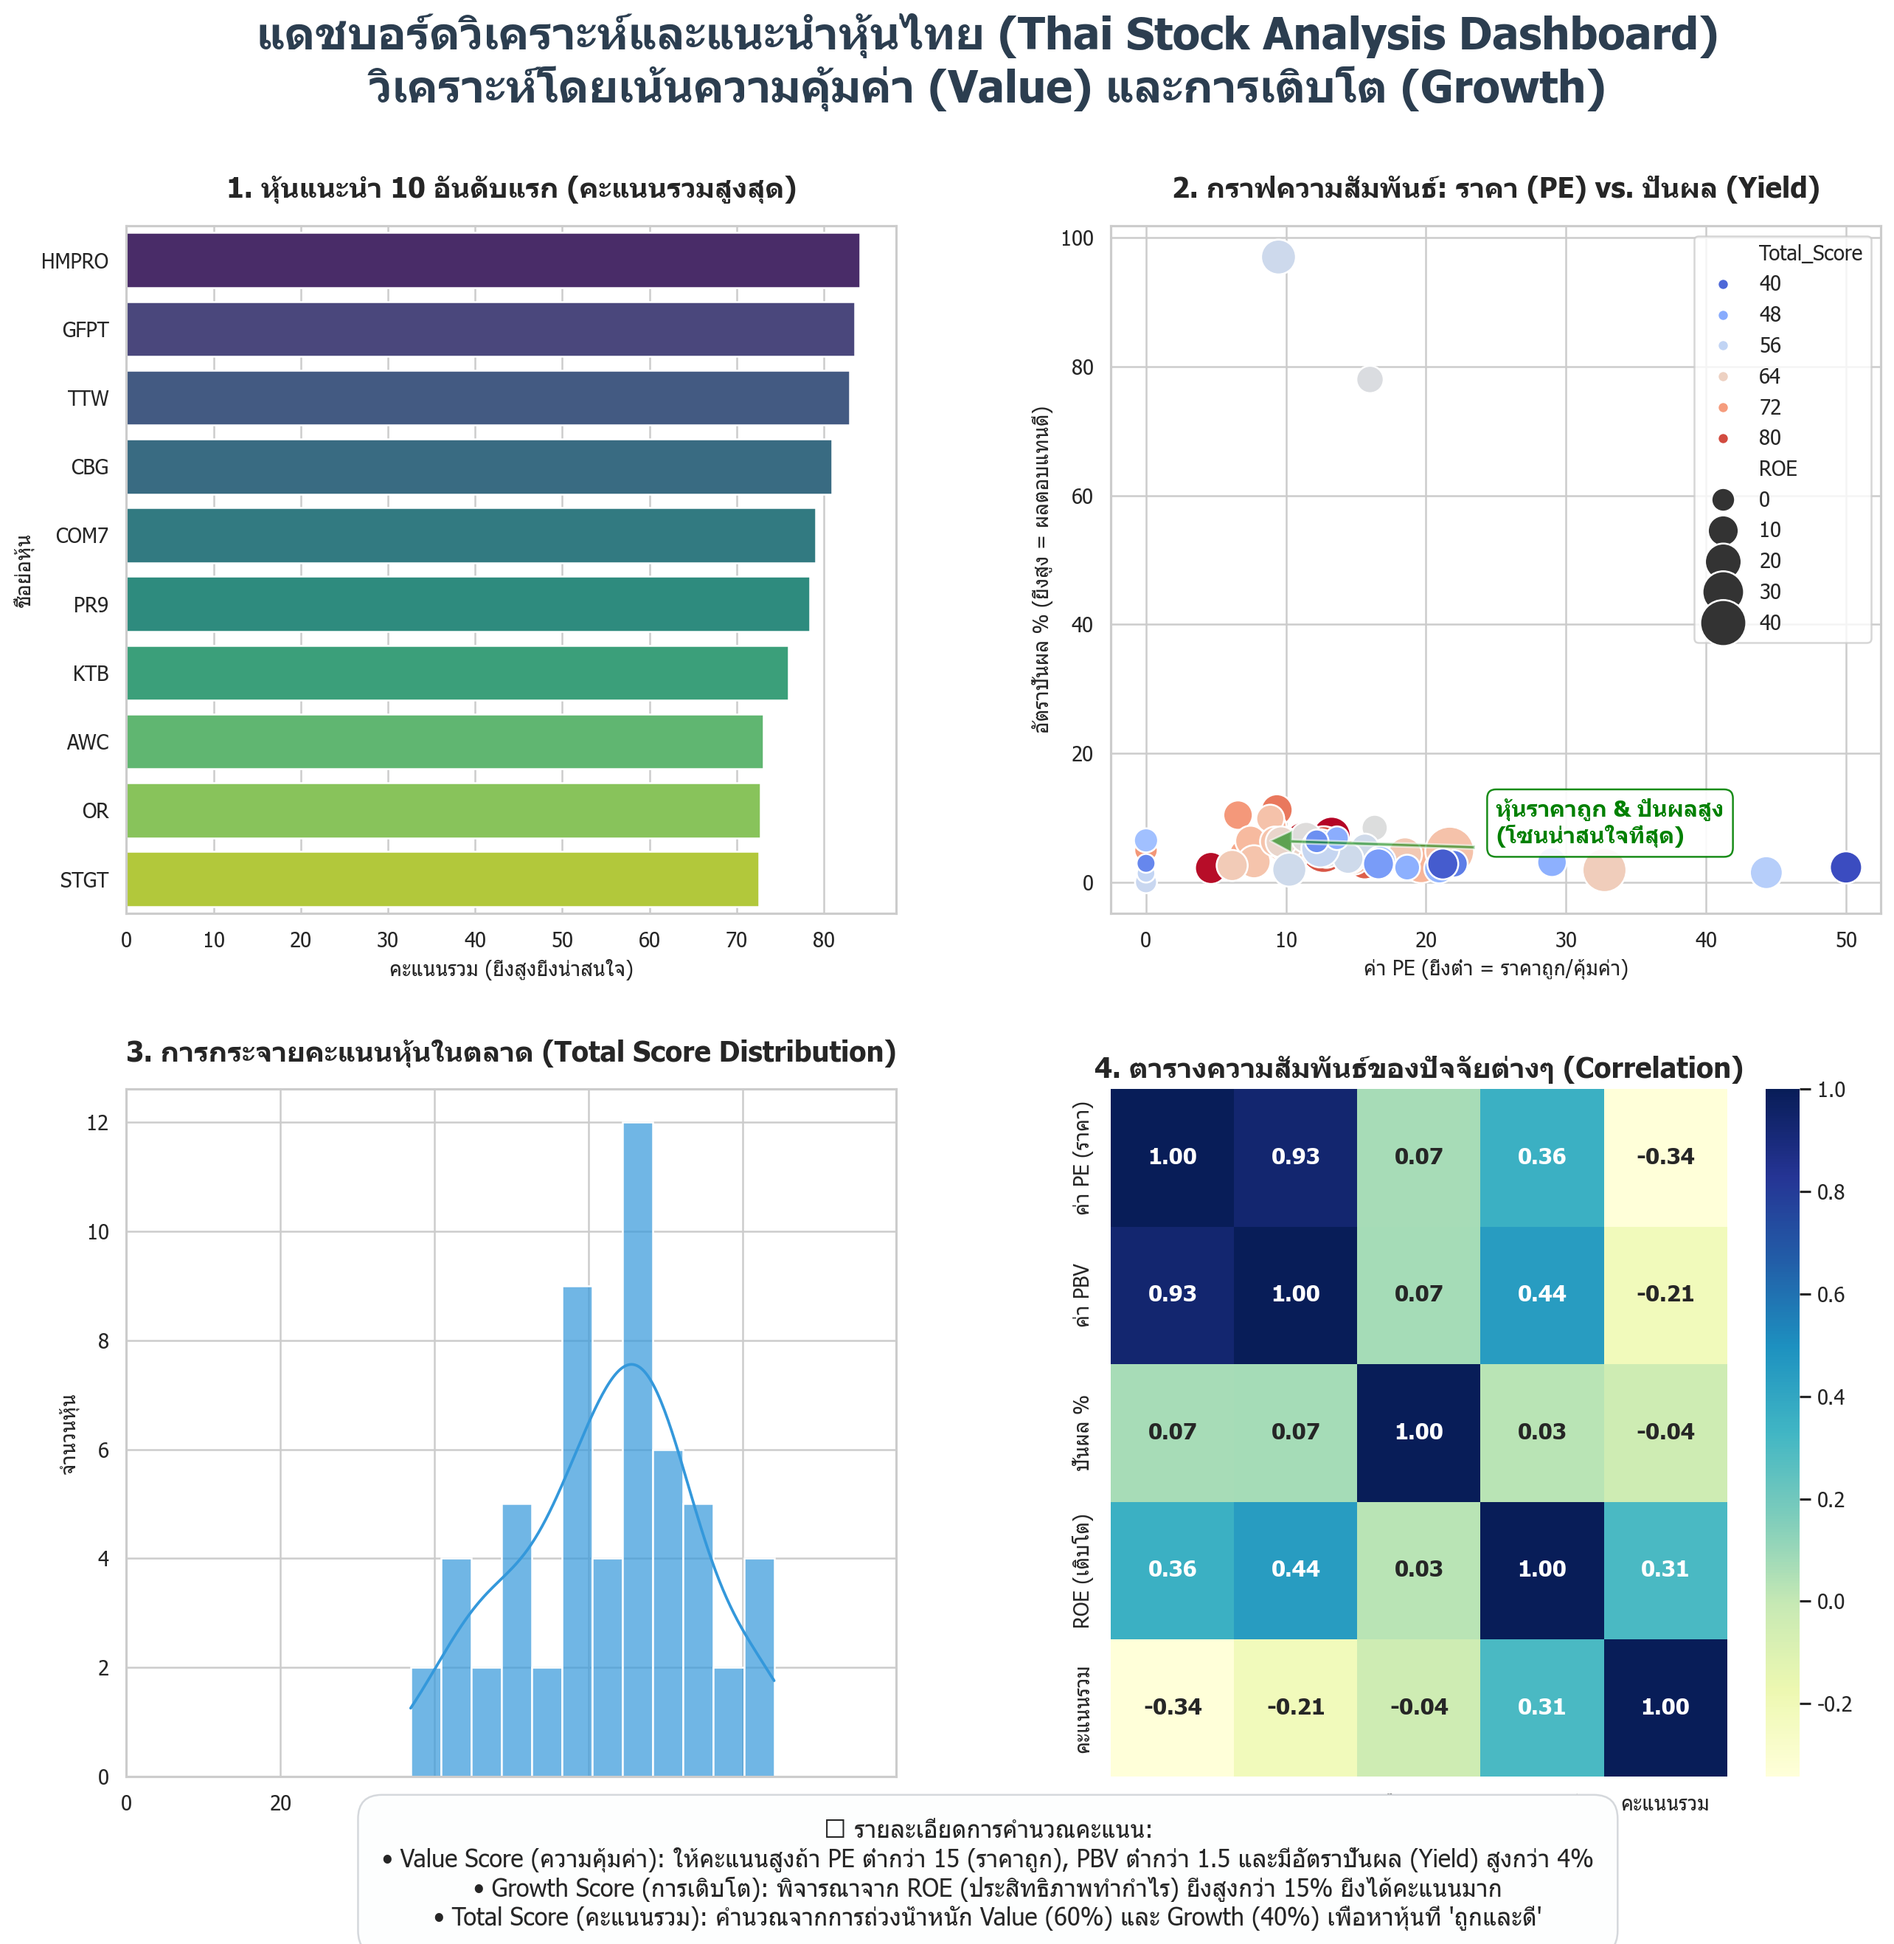
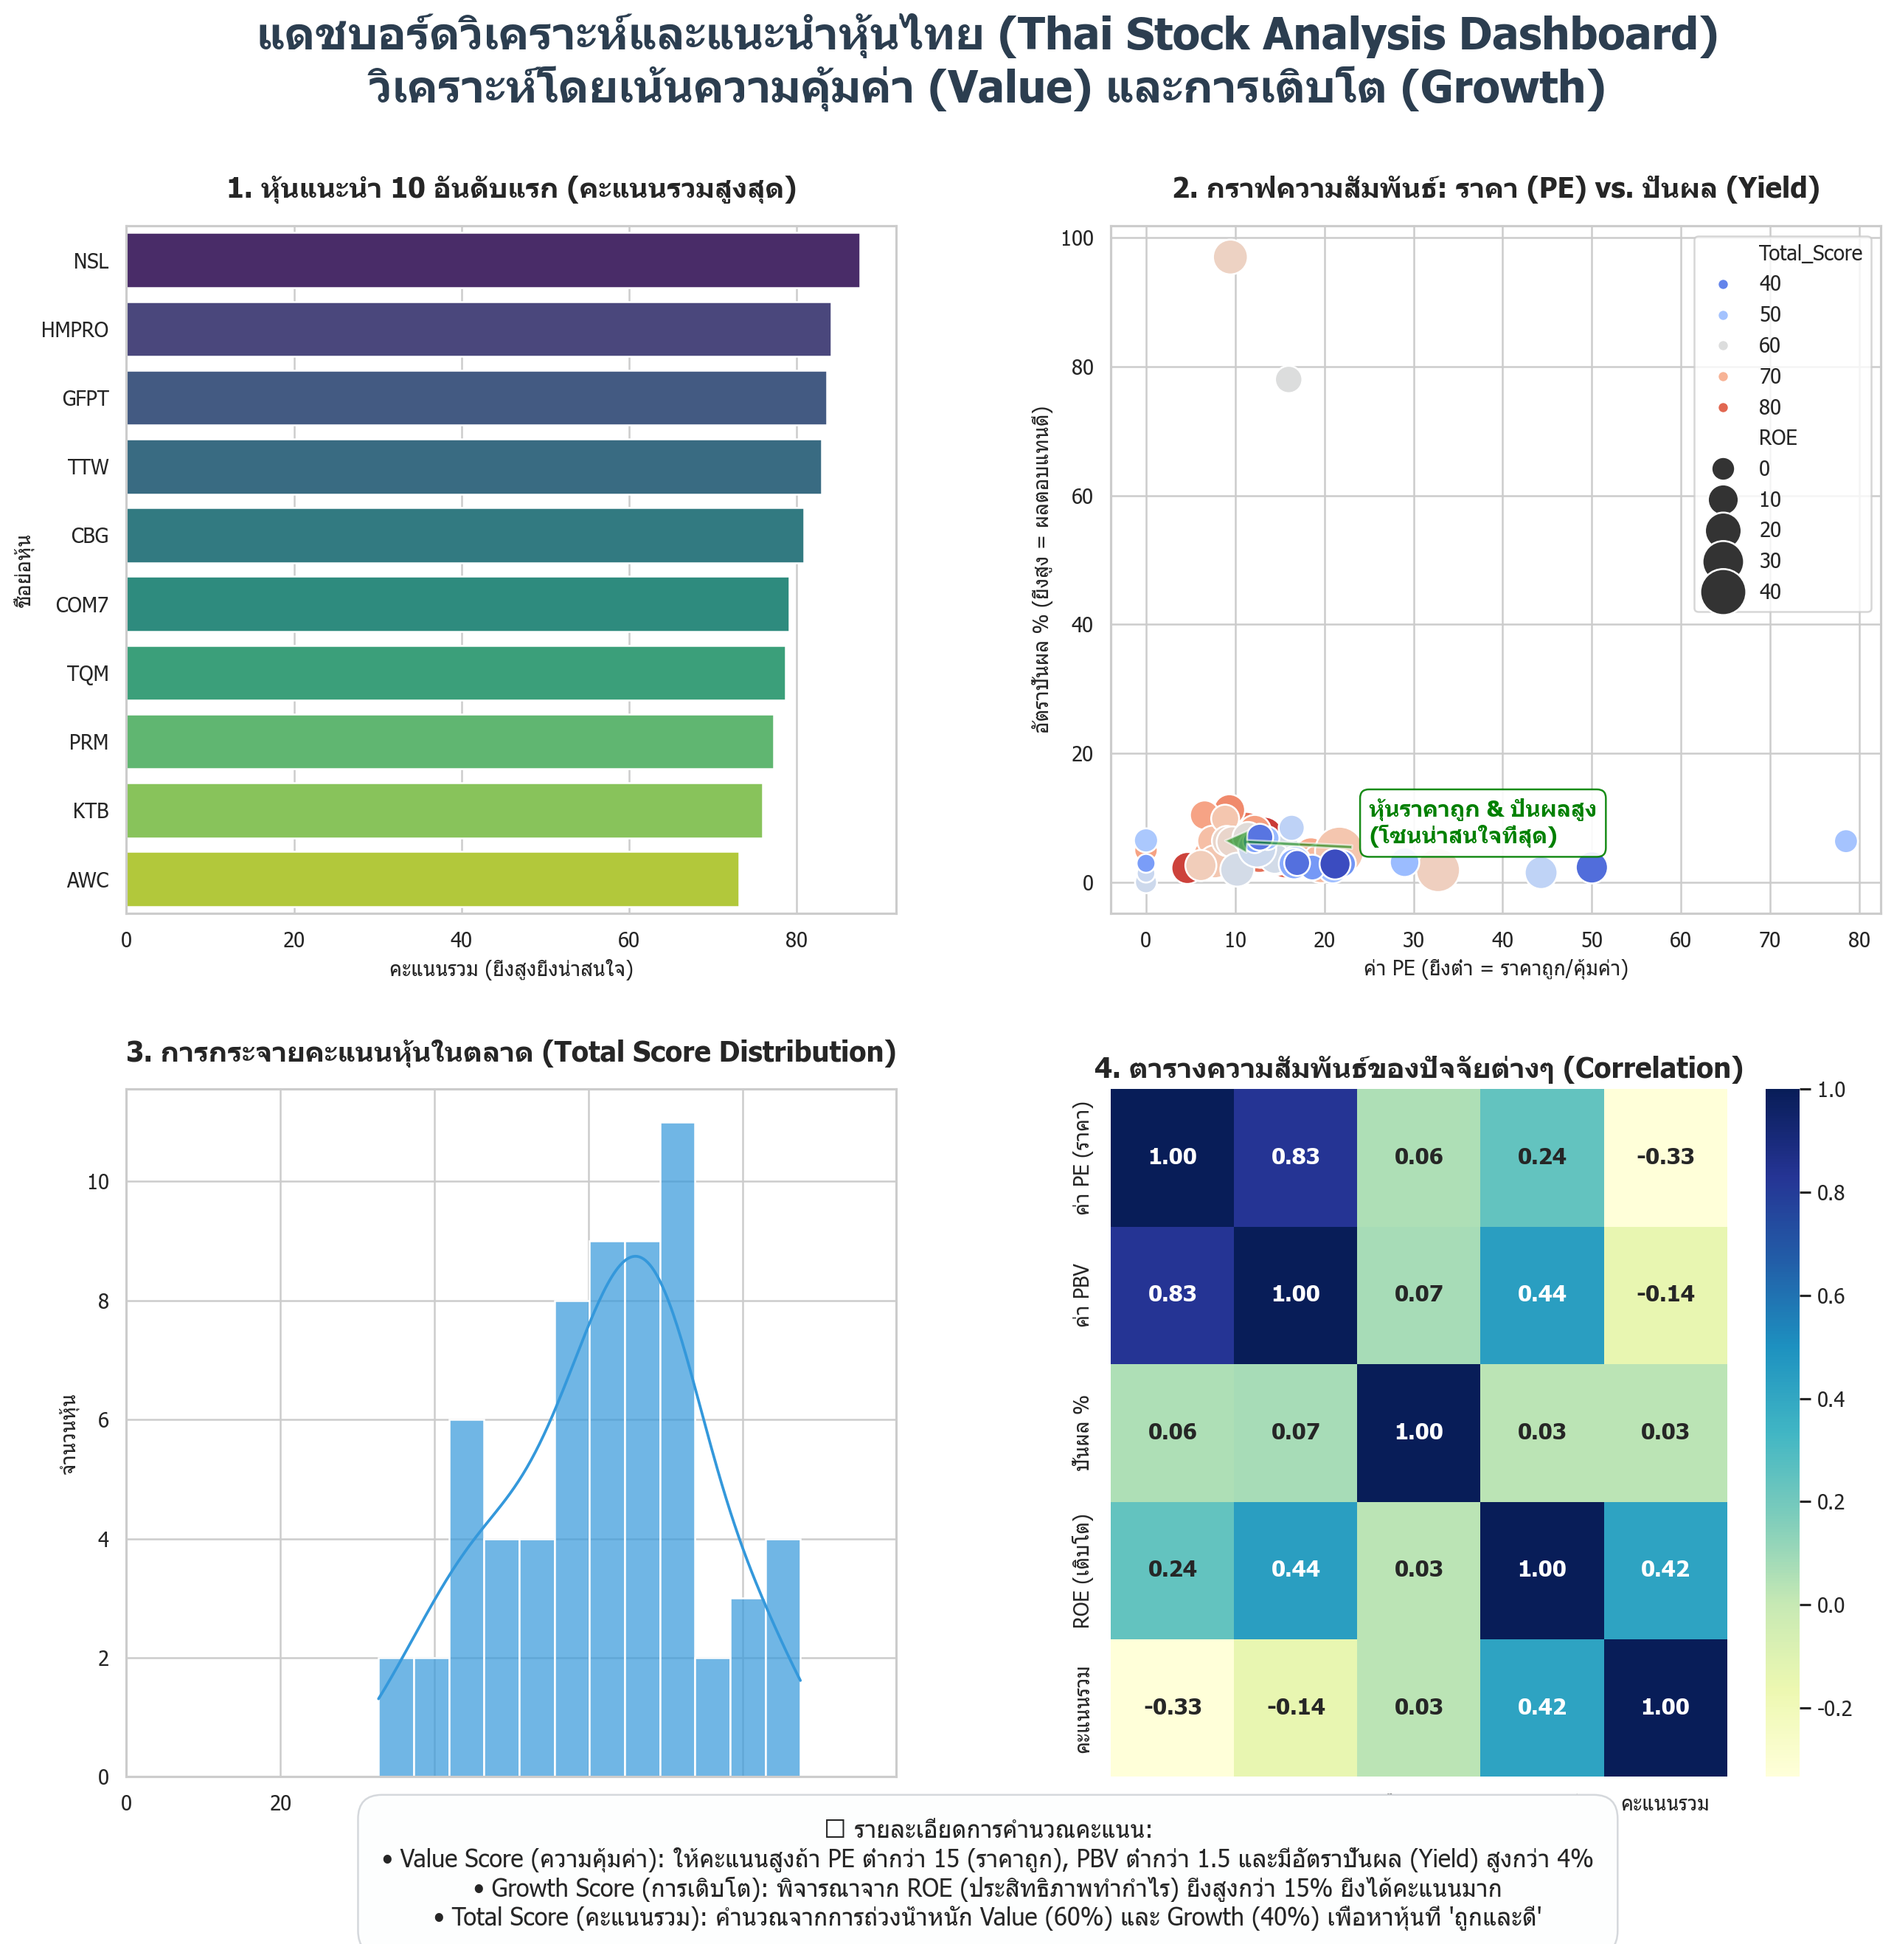
update think.md และเพิ่มการคิดเข้าไปใหม่

diff --git a/main.py b/main.py
@@ -104,10 +104,21 @@ def main():
                 
                 def get_advice(row):
                     if pd.isna(row['Total_Score']): return "No Data"
-                    score, gl = row['Total_Score'], row['Gain_Loss_Pct']
-                    if score >= 70: return "Buy More" if gl < 0 else "Hold"
-                    elif score >= 45: return "Wait/Hold"
-                    else: return "Sell" if gl > 0 else "Reduce/Cut"
+                    score = row['Total_Score']
+                    gl = row['Gain_Loss_Pct']
+                    pos = row['Price_Position']
+                    
+                    if score >= 70:
+                        if gl < 0:
+                            return "Buy More" # หุ้นดี ราคาลง = เก็บเพิ่ม (ถัวล่าง)
+                        elif pos < 40: 
+                            return "Accumulate" # หุ้นดี มีกำไร แต่ราคายังอยู่โซนล่าง = ทยอยสะสมเพิ่ม
+                        else:
+                            return "Hold" # หุ้นดี มีกำไร แต่ราคาเริ่มสูง = ถือรันกำไร
+                    elif score >= 45:
+                        return "Wait/Hold"
+                    else:
+                        return "Sell" if gl > 0 else "Reduce/Cut"
 
                 merged['Advice'] = merged.apply(get_advice, axis=1)
                 

diff --git a/think.md b/think.md
@@ -1,0 +1,42 @@
+# Stock Investment Analysis Logic (หลักการวิเคราะห์หุ้น)
+
+เอกสารนี้สรุปตรรกะและวิธีการคำนวณของระบบ เพื่อให้ผู้พัฒนาหรือ AI เข้าใจพื้นฐานก่อนการต่อยอดระบบ
+
+## 1. ระบบการให้คะแนน (Scoring System)
+ระบบใช้เกณฑ์การให้คะแนนแบบ **Multi-Factor Score** โดยแบ่งน้ำหนักตามความสำคัญดังนี้:
+
+*   **20% Financial Risk (D/E Ratio):** วัดความเสี่ยงด้านหนี้สิน (หนี้ต่ำ = คะแนนสูง)
+*   **20% Timing & Technical (RSI + Price Position):** 
+    *   RSI: วัดภาวะ Oversold/Overbought
+    *   Price Position: วัดตำแหน่งราคาปัจจุบันเทียบกับรอบ 52 สัปดาห์ (ราคาใกล้ Low = คะแนนสูง)
+*   **30% Absolute Fundamentals (P/E, ROE, Yield):** วัดคุณภาพหุ้นในเชิงมูลค่าและประสิทธิภาพการทำกำไร
+*   **30% Sector-Relative Quality:** เปรียบเทียบค่า P/E และ ROE กับ **"ค่ากลางของกลุ่มอุตสาหกรรม (Sector)"** เพื่อหาหุ้นที่โดดเด่นที่สุดในกลุ่มนั้นๆ
+
+## 2. หลักการให้คำแนะนำ (Investment Advice Logic - Aggressive Value)
+คำแนะนำ (Advice) จะพิจารณาจาก 3 ปัจจัย: **คุณภาพหุ้น (Score)**, **กำไร/ขาดทุน (Gain/Loss %)** และ **ตำแหน่งราคา (Price Position)**
+
+| คุณภาพหุ้น (Score) | สถานะพอร์ต | ตำแหน่งราคา (Pos) | คำแนะนำ (Advice) | เหตุผล |
+| :--- | :--- | :--- | :--- | :--- |
+| **หุ้นดีมาก (>= 70)** | ขาดทุน (Loss) | ไม่จำกัด | **Buy More** | หุ้นพื้นฐานดีแต่ราคาถูกลง เป็นจังหวะถัวเฉลี่ยที่ดี |
+| **หุ้นดีมาก (>= 70)** | กำไร (Profit) | **ต่ำ (< 40%)** | **Accumulate** | **หุ้นดีและราคายังถูก (โซนล่าง) แม้กำไรแล้วก็ควรสะสมเพิ่ม** |
+| **หุ้นดีมาก (>= 70)** | กำไร (Profit) | สูง (> 40%) | **Hold** | หุ้นดีและมีกำไร แต่ราคาเริ่มลอยตัว ให้ถือรันเทรนด์ |
+| **หุ้นกลางๆ (45-69)** | ทุกสถานะ | ไม่จำกัด | **Wait/Hold** | พื้นฐานทั่วไป ให้ถือไว้ก่อนหรือรอจังหวะใหม่ |
+| **หุ้นแย่/แพง (< 45)** | กำไร (Profit) | ไม่จำกัด | **Sell** | หุ้นเริ่มมีความเสี่ยงหรือแพงเกินไป ควรขายทำกำไร |
+| **หุ้นแย่/แพง (< 45)** | ขาดทุน (Loss) | ไม่จำกัด | **Reduce/Cut** | หุ้นไม่ดีและราคาลง ไม่ควรเก็บบนความเสี่ยง |
+
+---
+
+## 3. AI Developer Prompt (สำหรับใช้พัฒนาต่อยอด)
+
+**Copy ข้อความด้านล่างนี้เมื่อต้องการให้ AI ช่วยแก้ไขโปรแกรม:**
+
+> "คุณคือผู้เชี่ยวชาญด้านการพัฒนาโปรแกรมวิเคราะห์หุ้นด้วย Python โปรเจกต์นี้มีหลักการวิเคราะห์หุ้นแบบ Sector-Relative Analysis และการให้คำแนะนำแบบ Aggressive Value 
+> 
+> **กรุณาอ่านและทำความเข้าใจไฟล์ `think.md` โดยเฉพาะส่วน Investment Advice Logic:**
+> 1. ระบบจะแนะนำ 'Accumulate' ในหุ้น Score สูงที่แม้จะมีกำไรแต่ราคา Price_Position ยังอยู่โซนล่าง (< 40%)
+> 2. ระบบให้ความสำคัญกับการเปรียบเทียบคุณภาพหุ้นกับค่าเฉลี่ยของกลุ่ม (Sector Benchmarking)
+> 
+> เมื่อเข้าใจแล้ว โปรดช่วยฉัน [ระบุสิ่งที่ต้องการให้ทำ] โดยรักษามาตรฐานความปลอดภัยและการเขียนโค้ดที่อ่านง่ายตามหลักการเดิมของระบบ"
+
+---
+*อัปเดตล่าสุด: เมษายน 2026 (Aggressive Value Version)*
